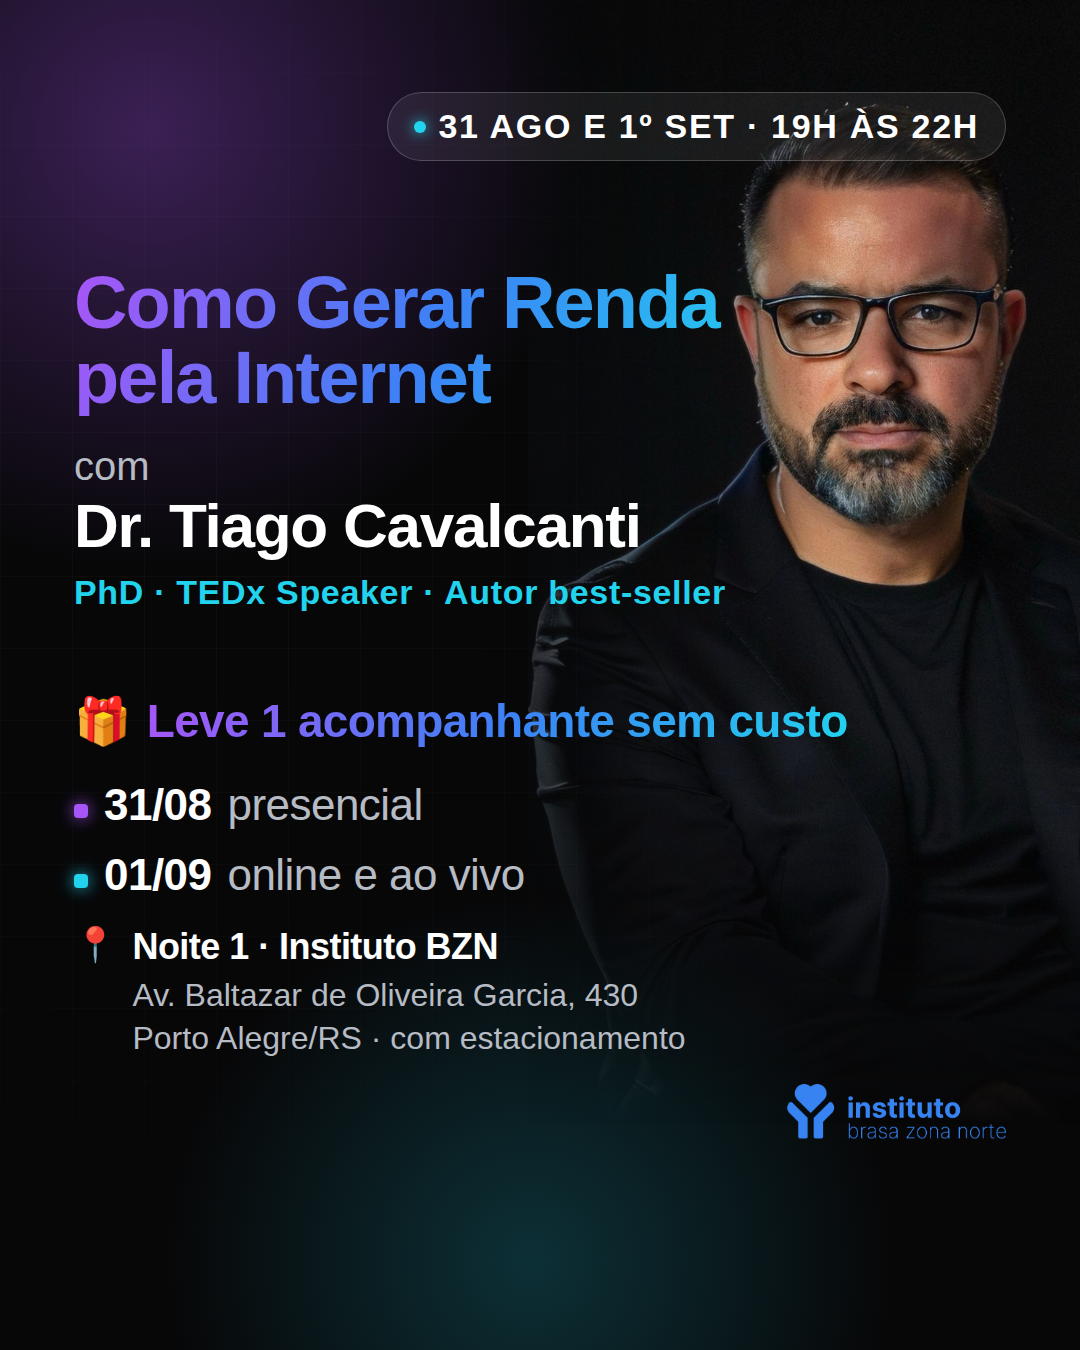
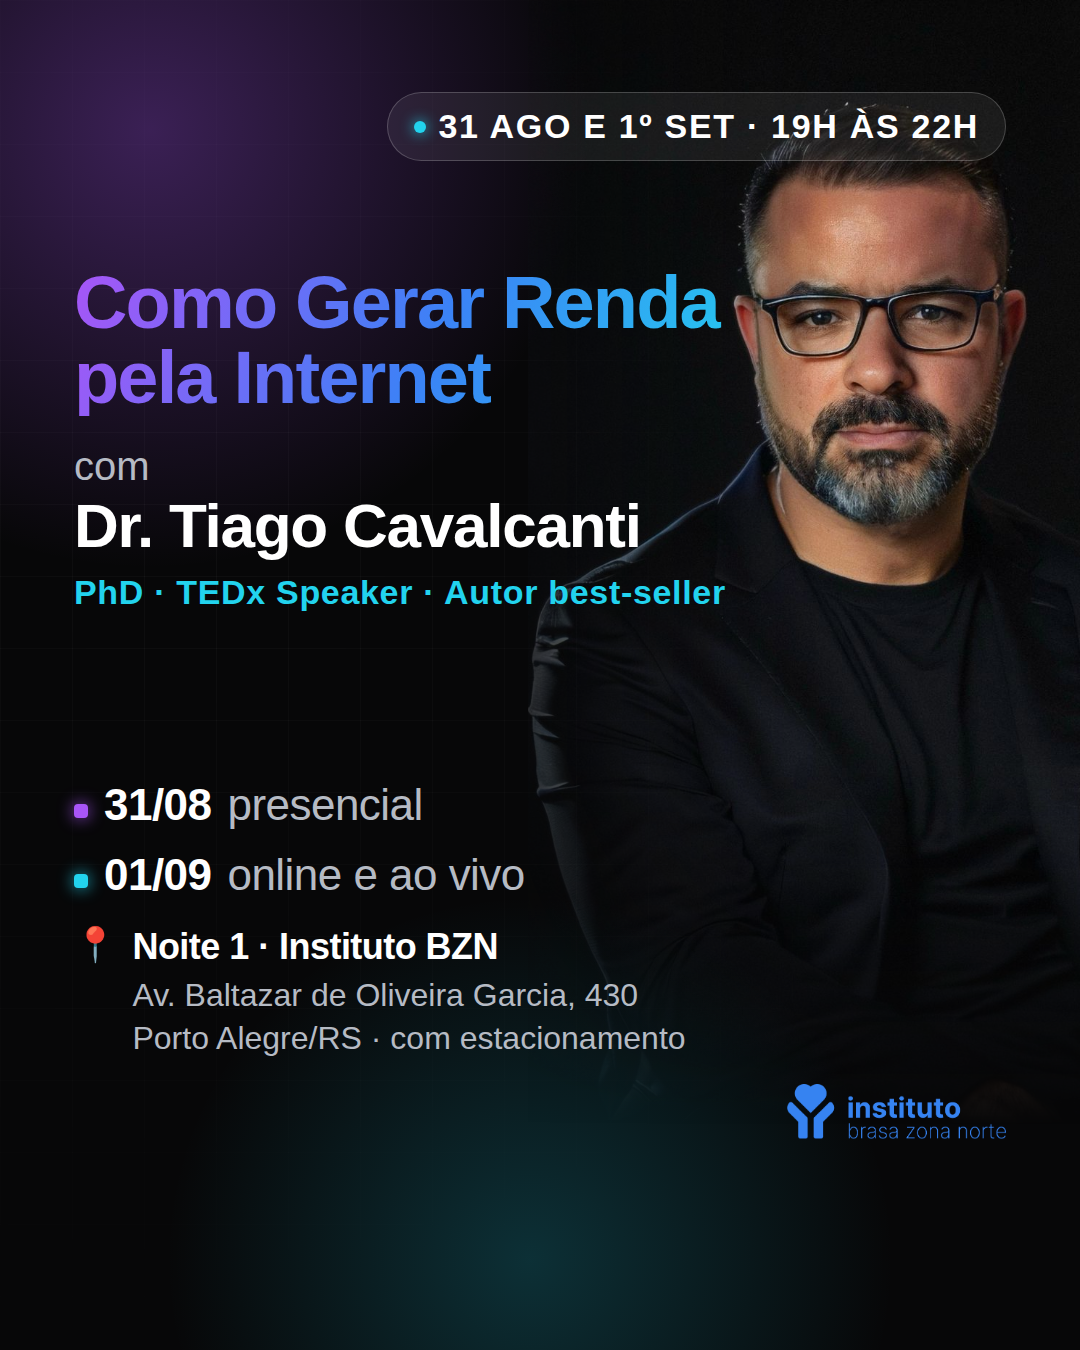
Tira a frase do acompanhante dos cards de feed
O bonus vira parametro do gerador: sai das duas pecas de feed e continua
nas de story, onde ha espaco de sobra.

Nos cards de feed a mensagem passa a viver so no texto do anuncio, que e
onde ela e lida de verdade — no criativo ela disputava atencao com as
datas e o local, que sao o que decide a ida.

Claude-Session: https://claude.ai/code/session_01WbkxUMsJSRAA9ULHXDAkuJ

Changed region(s): [[0.0611, 0.4978, 0.7944, 0.56]]

diff --git a/tools/cards/legivel.py b/tools/cards/legivel.py
@@ -191,8 +191,7 @@ CABECA = """<!DOCTYPE html>
     </div>
 
     <div class="foot">
-      <div class="bonus"><span class="ic">🎁</span><span class="t">Leve 1 acompanhante sem custo</span></div>
-      <div class="days">
+{BONUS}      <div class="days">
         <div class="day pres"><span class="b"></span><span class="n">31/08</span><span class="o">presencial</span></div>
         <div class="day onl"><span class="b"></span><span class="n">01/09</span><span class="o">online e ao vivo</span></div>
       </div>
@@ -234,6 +233,8 @@ CTA_WA = ('        <div class="wa">' + WA_SVG +
           '<span class="l2">(51) 98986-6856</span>'
           '</span></div>\n')
 
+BONUS_ACOMPANHANTE = '      <div class="bonus"><span class="ic">🎁</span><span class="t">Leve 1 acompanhante sem custo</span></div>\n'
+
 # ------------------------------------------------------------------ pecas
 # Sem CTA: para anuncio pago, onde o botao do Meta faz esse trabalho.
 FEED = dict(
@@ -244,7 +245,7 @@ FEED = dict(
     GAP_SUB=24, GAP_SPK=28, GAP_CRED=14, GAP_BONUS=32, GAP_DIAS=20,
     LOC_GAP=16, LOC_TOP=26, LOC_IC=34, LOC_L1=36, LOC_L2=32,
     SIGN_TOP=24, GAP_FOOT=30,
-    WA_GAP=0, WA_IC=1, WA_L1=1, WA_L2=1, CTA='',
+    WA_GAP=0, WA_IC=1, WA_L1=1, WA_L2=1, CTA='', BONUS='',
 )
 
 STORY = dict(
@@ -255,7 +256,7 @@ STORY = dict(
     GAP_SUB=34, GAP_SPK=56, GAP_CRED=16, GAP_BONUS=46, GAP_DIAS=26,
     LOC_GAP=18, LOC_TOP=38, LOC_IC=38, LOC_L1=40, LOC_L2=34,
     SIGN_TOP=50, GAP_FOOT=58,
-    WA_GAP=0, WA_IC=1, WA_L1=1, WA_L2=1, CTA='',
+    WA_GAP=0, WA_IC=1, WA_L1=1, WA_L2=1, CTA='', BONUS=BONUS_ACOMPANHANTE,
 )
 
 # Com CTA: post organico, story do perfil e disparo em grupo, onde nao ha
